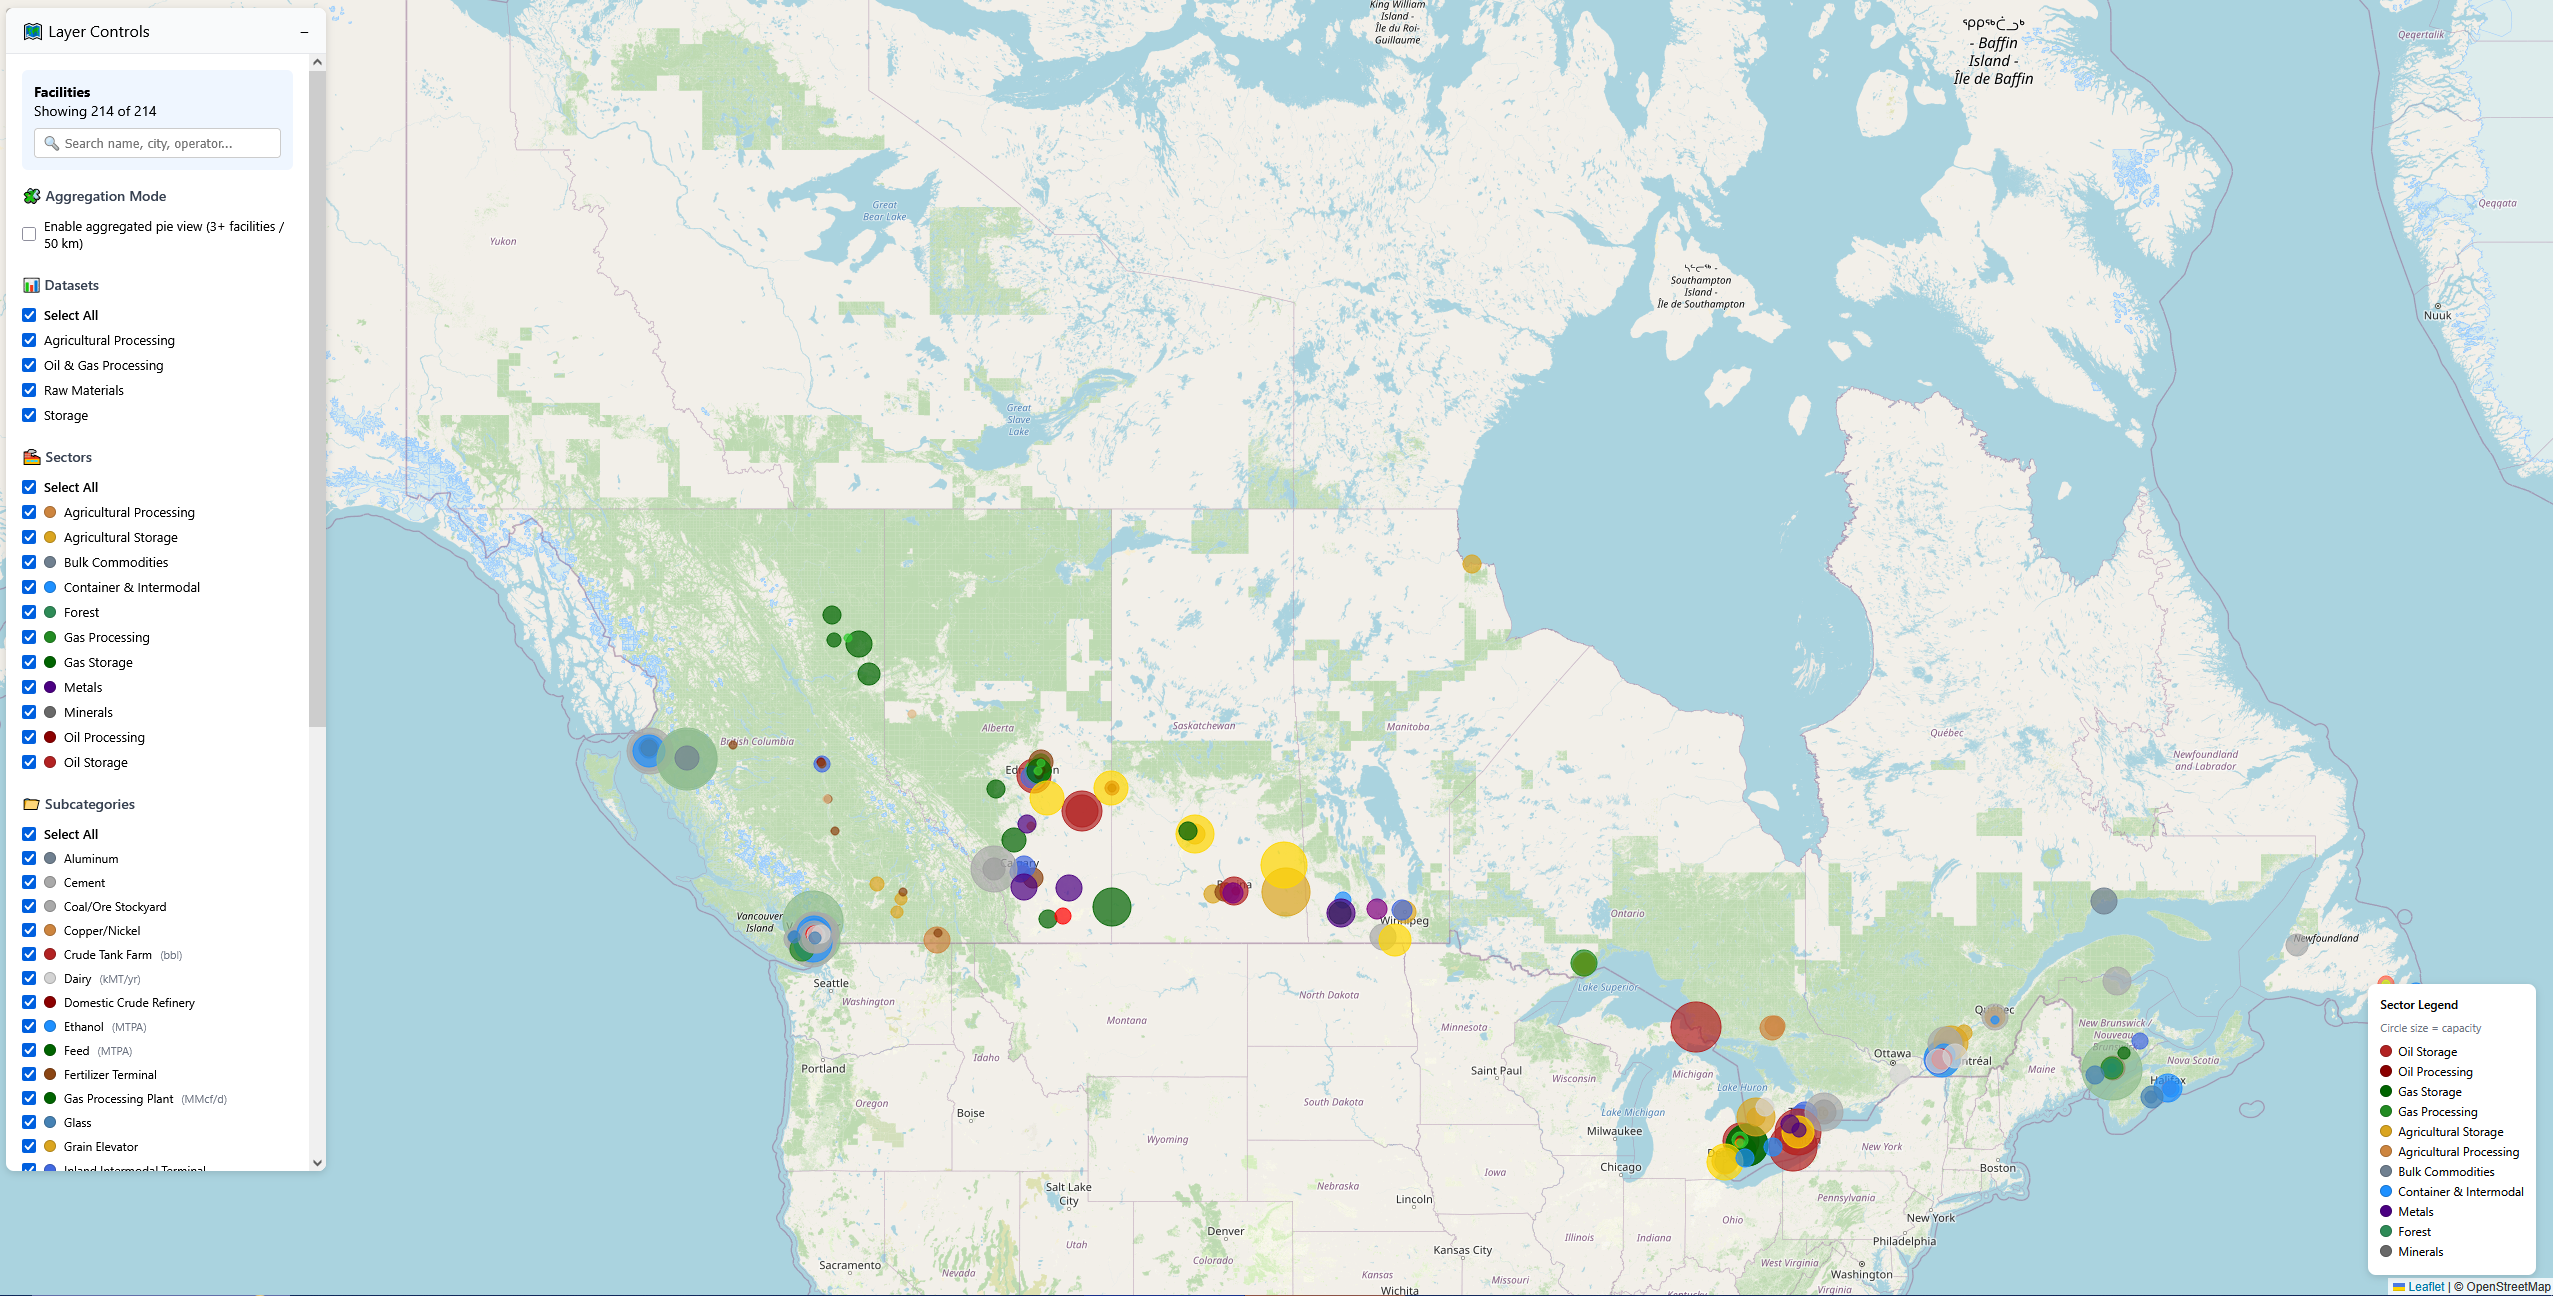
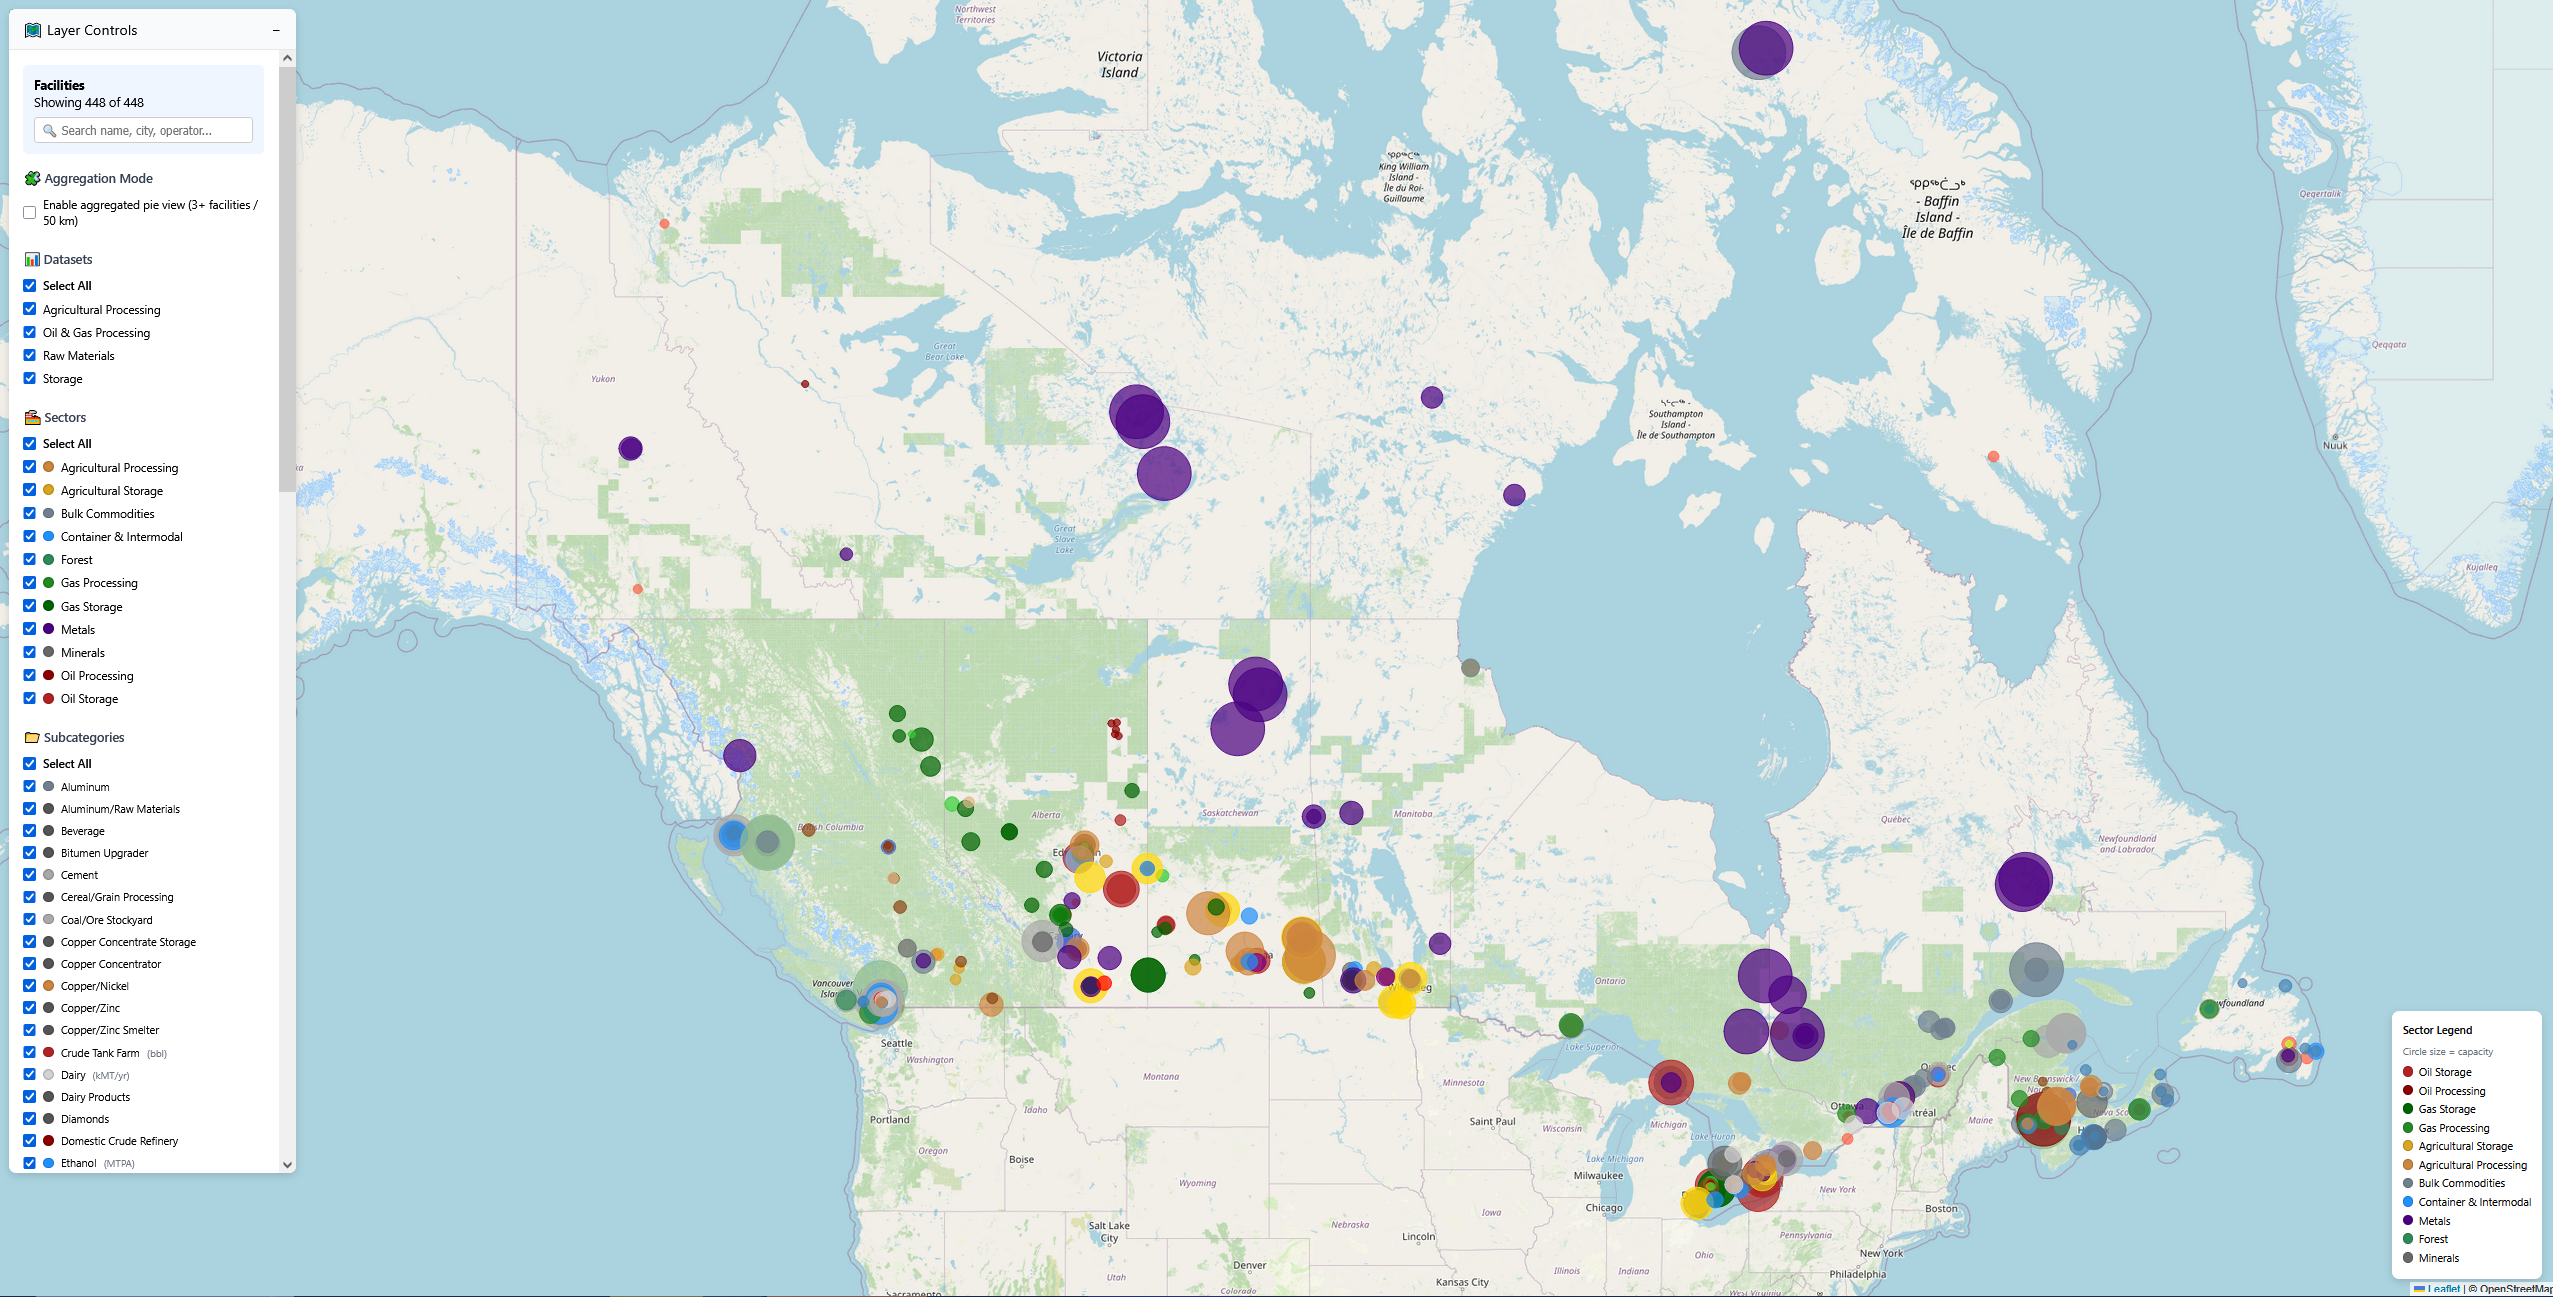
Update screenshot and README

diff --git a/README.md b/README.md
@@ -11,8 +11,6 @@ The map aggregates facilities by type, capacity, and geography, allowing explora
 
 ![App Screenshot](docs/screenshot.png)
 
-> The above example shows aggregated facility data around major industrial centers (Toronto, Edmonton, Vancouver) with the aggregation mode enabled.
-
 ---
 
 ## 🌍 Features
